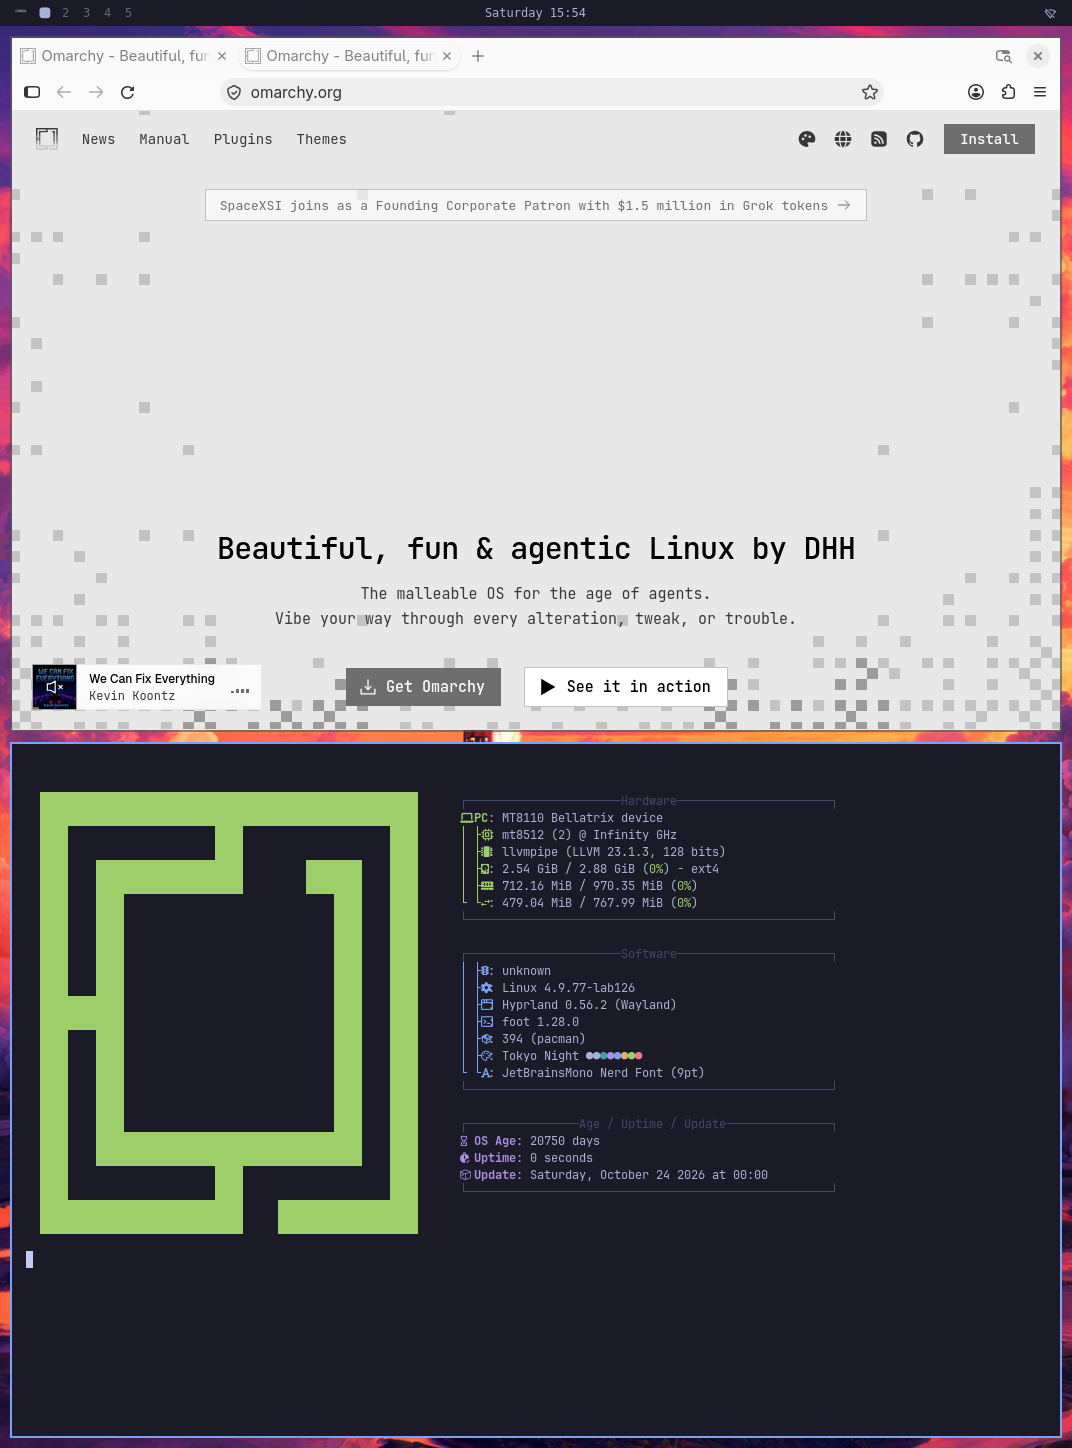
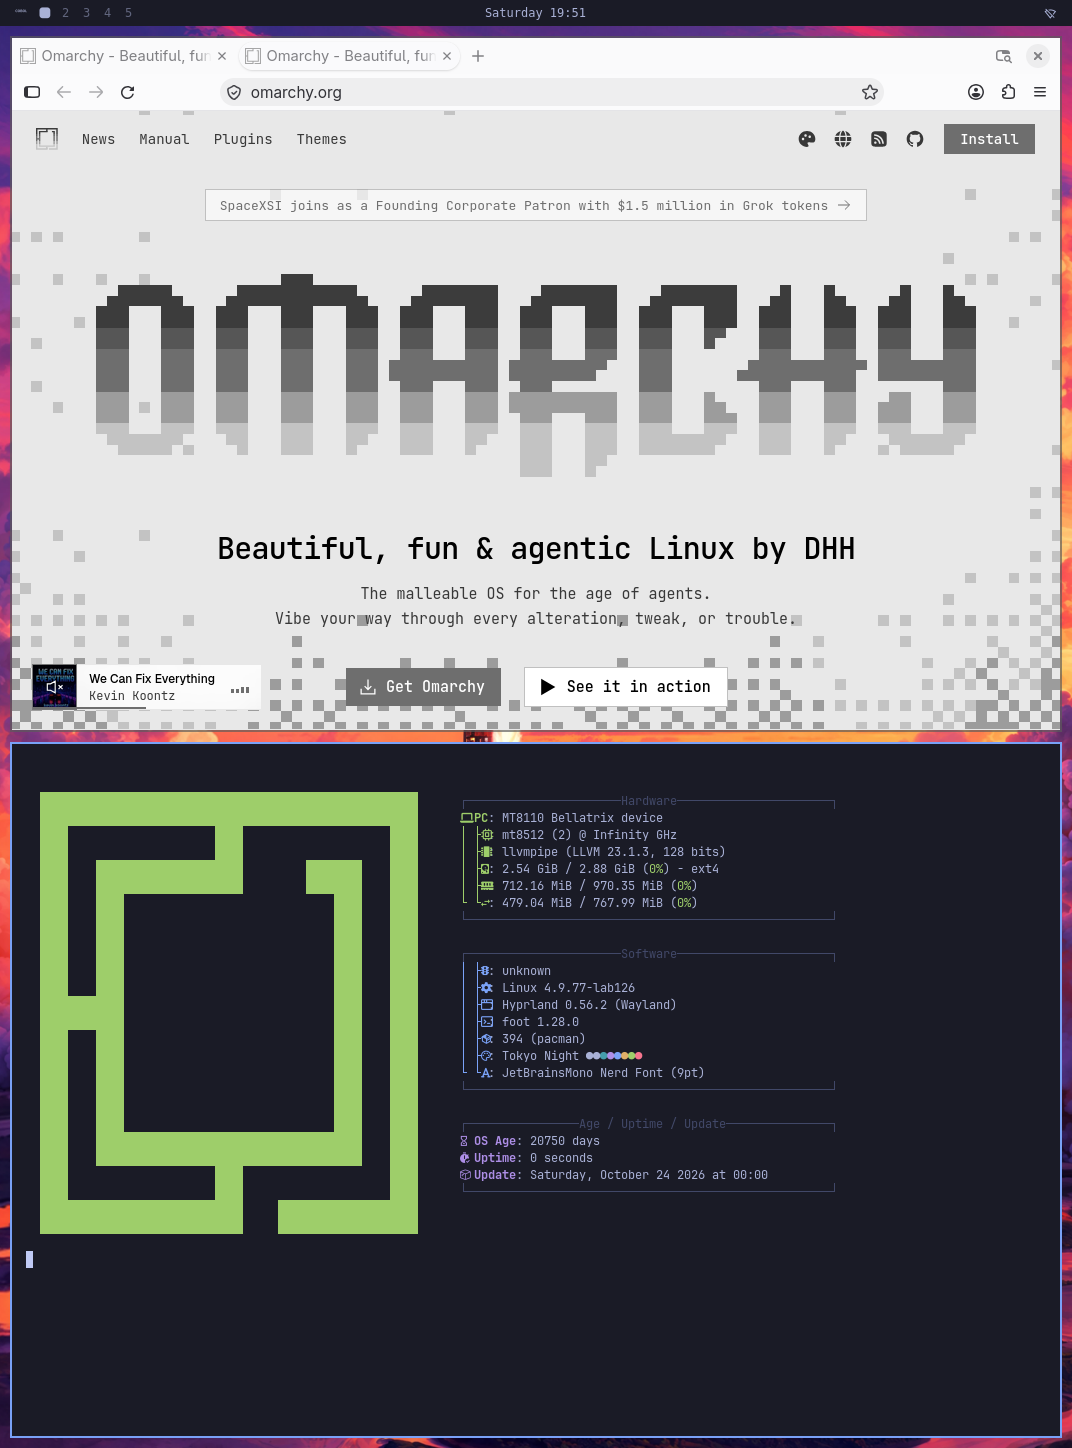
Use a live capture as the README screenshot

diff --git a/README.md b/README.md
@@ -5,11 +5,8 @@ Genuine, unpatched Hyprland, Omarchy's own config and Quickshell bar, Firefox, a
 terminal, all drawn to the e-ink panel.
 
 <p align="center">
-  <img src="docs/screenshot.png" width="420" alt="Omarchy on the Kindle: Firefox showing omarchy.org above a foot terminal running fastfetch, with the Omarchy bar on top">
-  &nbsp;
-  <img src="docs/eink.png" width="420" alt="The same frame read back from the Kindle's e-ink framebuffer in grayscale">
+  <img src="docs/screenshot.png" width="560" alt="Omarchy on the Kindle: Firefox showing omarchy.org above a foot terminal running fastfetch, with the Omarchy bar on top">
 </p>
-<p align="center"><sub>Left: what Hyprland renders. Right: the same frame read back from the panel's framebuffer.</sub></p>
 
 ## The hardware
 
